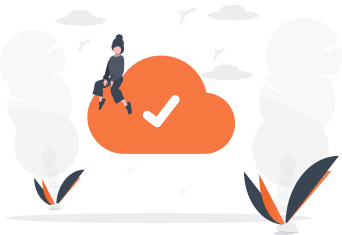
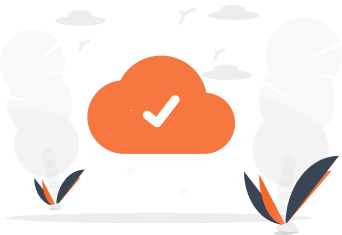
added verify dns component

Changed region(s): [[0.2632, 0.1489, 0.4094, 0.4766]]

diff --git a/src/components/dns-status-table/index.js b/src/components/dns-status-table/index.js
@@ -1,0 +1,94 @@
+import { CircularProgress, List, ListItem, ListItemText, Paper, Stack, Typography } from "@mui/material";
+import { makeStyles } from "@mui/styles";
+import { Box } from "@mui/system";
+import PropTypes from "prop-types";
+import { Check } from "react-feather";
+import { icon_cloud, icon_cloud_dull } from "../../config/Constants";
+
+const useStyles = makeStyles((theme) => ({
+    container: {
+        width: "100%",
+    },
+    dataStack: { marginTop: 20 },
+    listItem: {
+        width: "100%",
+    },
+    rowItem: {
+        flex: 2,
+        display: "flex",
+        alignItems: "center",
+        justifyContent: "center",
+        padding: "15px",
+    },
+    statusWrapper: {
+        flex: 1,
+        display: "flex",
+        alignItems: "center",
+        justifyContent: "flex-end",
+        paddingRight: 30,
+    },
+    cloudIcon: {
+        width: 18,
+        height: "auto",
+    },
+}));
+
+export const DnsStatusTable = ({ rowData }) => {
+    const classes = useStyles();
+
+    const getDisplayValues = (obj) => {
+        let tempObj = { ...obj };
+        delete tempObj.isCompleted;
+        delete tempObj.isInprogress;
+
+        return { ...tempObj };
+    };
+
+    return (
+        <Stack className={classes.container} spacing={0}>
+            <Typography component="p" textAlign="right" variant="initial" color="primary.main">
+                Verifying 10 of 21
+            </Typography>
+            <Stack spacing={1} className={classes.dataStack}>
+                {rowData.map((val, index) => {
+                    const displayValues = getDisplayValues(val);
+                    return (
+                        <Paper className={classes.listItem} key={index + val.content} elevation={val.isInprogress ? 4 : 0}>
+                            <Stack direction="row">
+                                {Object.keys(displayValues).map((key, keyIndex) => (
+                                    <Box key={key + keyIndex} className={classes.rowItem}>
+                                        {key === "proxyStatus" && displayValues[key] === "Proxied" ? (
+                                            <Box display="flex" alignItems="center">
+                                                <img className={classes.cloudIcon} src={val.isInprogress ? icon_cloud : icon_cloud_dull} alt="cloud icon" />
+                                                <Typography component="span" ml={1} variant="small1" color={val.isInprogress ? "common.black" : "black.40"}>
+                                                    {displayValues[key]}
+                                                </Typography>
+                                            </Box>
+                                        ) : (
+                                            <Typography variant="small1" color={val.isInprogress ? "common.black" : "black.40"}>
+                                                {displayValues[key]}
+                                            </Typography>
+                                        )}
+                                    </Box>
+                                ))}
+                                <Box className={classes.statusWrapper}>
+                                    {val.isInprogress ? (
+                                        <CircularProgress size={20} />
+                                    ) : val.isCompleted ? (
+                                        <Box color="#FAB395">
+                                            <Check size={16} />
+                                        </Box>
+                                    ) : null}
+                                </Box>
+                            </Stack>
+                        </Paper>
+                    );
+                })}
+            </Stack>
+        </Stack>
+    );
+};
+
+DnsStatusTable.propTypes = {
+    rowData: PropTypes.array,
+};

diff --git a/src/pages/onboarding/main/verify-dns/index.js b/src/pages/onboarding/main/verify-dns/index.js
@@ -1,5 +1,8 @@
 import { LinearProgress, Typography } from "@mui/material";
 import { makeStyles } from "@mui/styles";
+import { findIndex } from "lodash";
+import { useState } from "react";
+import { DnsStatusTable } from "../../../../components/dns-status-table";
 
 const useStyles = makeStyles((theme) => ({
 	progress: {
@@ -14,8 +17,37 @@ const useStyles = makeStyles((theme) => ({
 	},
 }));
 
+const createDnsRecordsData = (type, name, content, ttl, proxyStatus, isCompleted, isInprogress) => {
+	return { type, name, content, ttl, proxyStatus, isCompleted, isInprogress };
+};
+
+const rows = [
+	createDnsRecordsData("A", "blog", "104.21.48.239", "Auto", "Proxied", false, true),
+	createDnsRecordsData("A", "blog", "172.67.157.1", "Auto", "Proxied", false, false),
+	createDnsRecordsData("CNAME", "example.co", "172.67.157.1", "Auto", "DNS Only", false, false),
+	createDnsRecordsData("A", "blog", "172.67.157.1", "Auto", "Proxied", false, false),
+	createDnsRecordsData("CNAME", "example.co", "172.67.157.1", "Auto", "DNS Only", false, false),
+	createDnsRecordsData("A", "blog", "172.67.157.1", "Auto", "Proxied", false, false),
+	createDnsRecordsData("CNAME", "example.co", "172.67.157.1", "Auto", "DNS Only", false, false),
+	createDnsRecordsData("A", "blog", "172.67.157.1", "Auto", "Proxied", false, false),
+	createDnsRecordsData("CNAME", "example.co", "172.67.157.1", "Auto", "DNS Only", false, false),
+];
+
 export const VerifyDNS = () => {
 	const classes = useStyles();
+	const [dnsRows, setDnsRows] = useState([...rows]);
+
+	const getActiveDnsRecords = () => {
+		let focusedElement = findIndex(dnsRows, { isInprogress: true });
+		let recordsLength = dnsRows.length;
+		if (focusedElement === 0) {
+			return [dnsRows[0], dnsRows[1], dnsRows[2]];
+		} else if (focusedElement === recordsLength - 1) {
+			return [dnsRows[recordsLength - 3], dnsRows[recordsLength - 2], dnsRows[recordsLength - 1]];
+		} else {
+			return [dnsRows[focusedElement - 1], dnsRows[focusedElement], dnsRows[focusedElement + 1]];
+		}
+	};
 
 	return (
 		<>
@@ -26,6 +58,7 @@ export const VerifyDNS = () => {
 				Please wait while we verify your DNS records. This might take few minutes.
 			</Typography>
 			<LinearProgress variant="determinate" value={80} color="primary" classes={{ root: classes.progress, bar: classes.bar }} />
+			<DnsStatusTable rowData={getActiveDnsRecords()} />
 		</>
 	);
 };

diff --git a/src/config/Constants/index.js b/src/config/Constants/index.js
@@ -22,6 +22,7 @@ import awsIconGrey from "../../assets/icons/aws_grey.svg";
 import azureIconGrey from "../../assets/icons/microsoft_azure_grey.svg";
 import googleCloudIconGrey from "../../assets/icons/google_cloud_grey.svg";
 import cloudIcon from "../../assets/icons/cloud.svg";
+import cloudDullIcon from "../../assets/icons/cloud_dull.svg";
 
 import packageJson from "../../../package.json";
 
@@ -49,6 +50,7 @@ export var icon_aws_grey = awsIconGrey;
 export var icon_google_cloud = googleCloudIcon;
 export var icon_google_cloud_grey = googleCloudIconGrey;
 export var icon_cloud = cloudIcon;
+export var icon_cloud_dull = cloudDullIcon;
 
 console.log(packageJson.version);
 export var app_version = "v" + packageJson.version;
